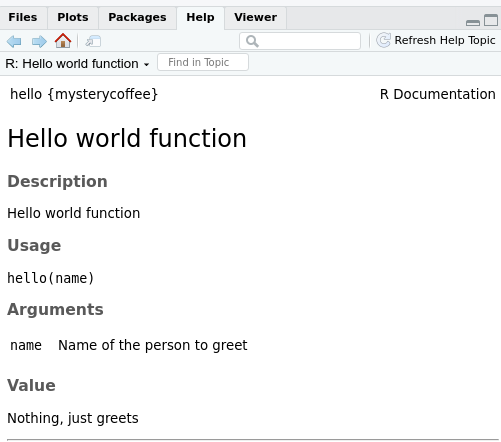
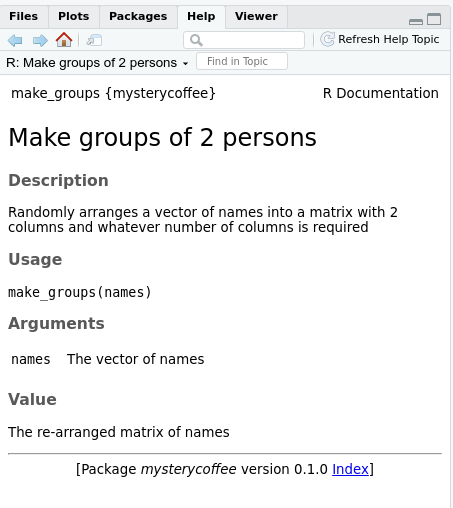
Adapt docs chapter to our function

diff --git a/_episodes/035-documentation.md b/_episodes/035-documentation.md
@@ -1,7 +1,7 @@
 ---
 title: "Documenting your package"
-teaching: 0
-exercises: 0
+teaching: 20
+exercises: 20
 questions:
 - "How can I make my package understandable and reusable?"
 objectives:
@@ -9,7 +9,8 @@ objectives:
 - "Use roxygen2 for managing the NAMESPACE file"
 keypoints:
 - "Documentation is not optional"
-- "Roxygen helps us with the otherwise tedious process of documenting"
+- "roxygen2 helps us with the otherwise tedious process of documenting"
+- "roxygen2 also takes care of NAMESPACE"
 ---
 
 ## Why documenting?
@@ -54,22 +55,103 @@ Please note that, before pressing `Code > Insert Roxygen skeleton` your cursor h
 
 ![Roxygen skeleton](../fig/roxygen-skeleton.gif)
 
-- The `return` field refers to the output. In this case, although something is printed to the screen, no output is provided (in the sense that `var <- hello()` is not assigned any value).
-- The `export` field means that this function should be exported to the `NAMESPACE`.
-- The `examples` field is used, as you can guess, for adding examples to the documentation. We'll not use it now, so we can delete it.
+Let's take a look at the _skeleton_. It contains:
 
-> ## Building the documentation (and NAMESPACE)
+- A `Title` section, where you can write what your function does. You can use add more comment lines below for a long description.
+- The `return` field refers to the function's output.
+- The `params` field(s) refer to each of the function's input(s).
+- The `export` field means that this function should be exported to the `NAMESPACE`. We'll discuss it further later.
+- The `examples` field is used, as you can guess, for adding examples to the documentation. We'll not use it now, so we can delete it. If you are interested in this or other optional parameters, please refer to [`roxygen2` documentation](https://cran.r-project.org/web/packages/roxygen2/vignettes/roxygen2.html).
+
+> ## Write the docs
+> Take 5 minutes to edit the skeleton with real documentation.
+> In particular:
+> 
+> 1. Add a title.
+>
+> 2. Describe, below the title, what the function does.
+>
+> 3. Describe the parameter `names`.
+>
+> 4. Describe the output that is returned.
+>
+> 5. Ignore `@export`.
+>
+> 6. Delete `@examples`.
+>
+> > ## Solution
+> > The documentation should look approximately like this:
+> > 
+> > ~~~r
+> > #' Make groups of 2 persons
+> > #'
+> > #' Randomly arranges a vector of names into a matrix with 2 columns and
+> > #' whatever number of columns is required
+> > #'
+> > #' @param names The vector of names
+> > #'
+> > #' @return The re-arranged matrix of names
+> > #' @export
+> > #'
+> > make_groups <- function(names) {
+> >   # Shuffle the names
+> >   names_shuffled <- sample(names)
+> > 
+> >   # Arrange it as a two-columns matrix
+> >   names_coupled <- matrix(names, ncol = 2)
+> > 
+> >   return(names_coupled)
+> > }
+> > ~~~
+> > {: .source}
+> {: .solution}
+{: .challenge}
+
+> ## The `export` field
+> In case you don't want your function to be directly accessible for users of your package, you just have to delete the `@export` keyword from the function documentation.
+> But, why would you want that?
+> Can you think of an example where hiding a function can be a good idea?
+> > ## Solution
+> > Sometimes packages use auxiliary functions that perform intermediate operations.
+> > Writing functions for these operations can be very useful for the developer, but confusing for potential users.
+> > If that's the case, it can be a good idea to not export those functions keeping them only internally available.
+> {: .solution}
+{: .challenge}
+
+Now that we have written the documentation, we are ready to build it.
+As you will see, the process is quite automatic.
+> ## Building the documentation
 > If you configured `roxygen2` as we suggested in section _"Using `roxygen2` for the first time"_, the documentation will be generated every time you press _"Install and restart"_ in the _"Build"_ menu at the upper right side of `RStudio`. The tab will also contain a _"Document"_ only:
 >
 > ![Document](../fig/document.gif)
 >
 {: .callout}
+
+> ## Writing the `NAMESPACE`
+> The documentation build also created the `NAMESPACE` file.
+> Can you open it and describe what do you see?
+> What does it mean?
+> > ## Solution
+> > The `NAMESPACE` file should look like:
+> >
+> > ~~~
+> > # Generated by roxygen2: do not edit by hand
+> > 
+> > export(make_groups)
+> > ~~~
+> > {: .source}
+> > 
+> > The `export` command guarantees that the function `make_groups` will be available for the final users of the package.
+> > 
+> > The comment is also worth noting: you don't have to edit this file by hand; `roxygen2` will take care of it.
+> {: .solution}
+{: .challenge}
 ## Reading the documentation
 
 After generating the documentation and installing the package, the documentation generated by `roxygen2` can be accessed as usual in `R` using a question mark and the name of the function we are interested in:
 
 ~~~r
-?hello
+?make_groups
 ~~~
 {: .source}
 
